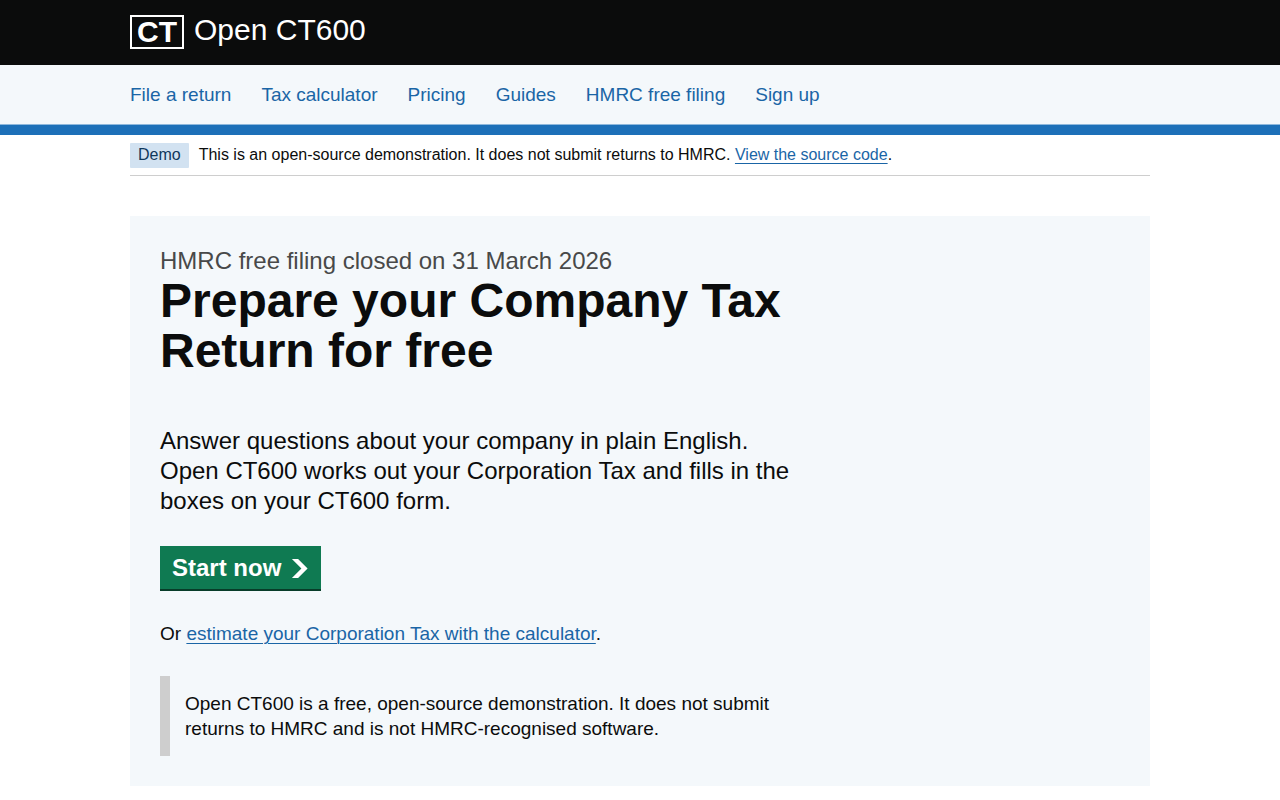
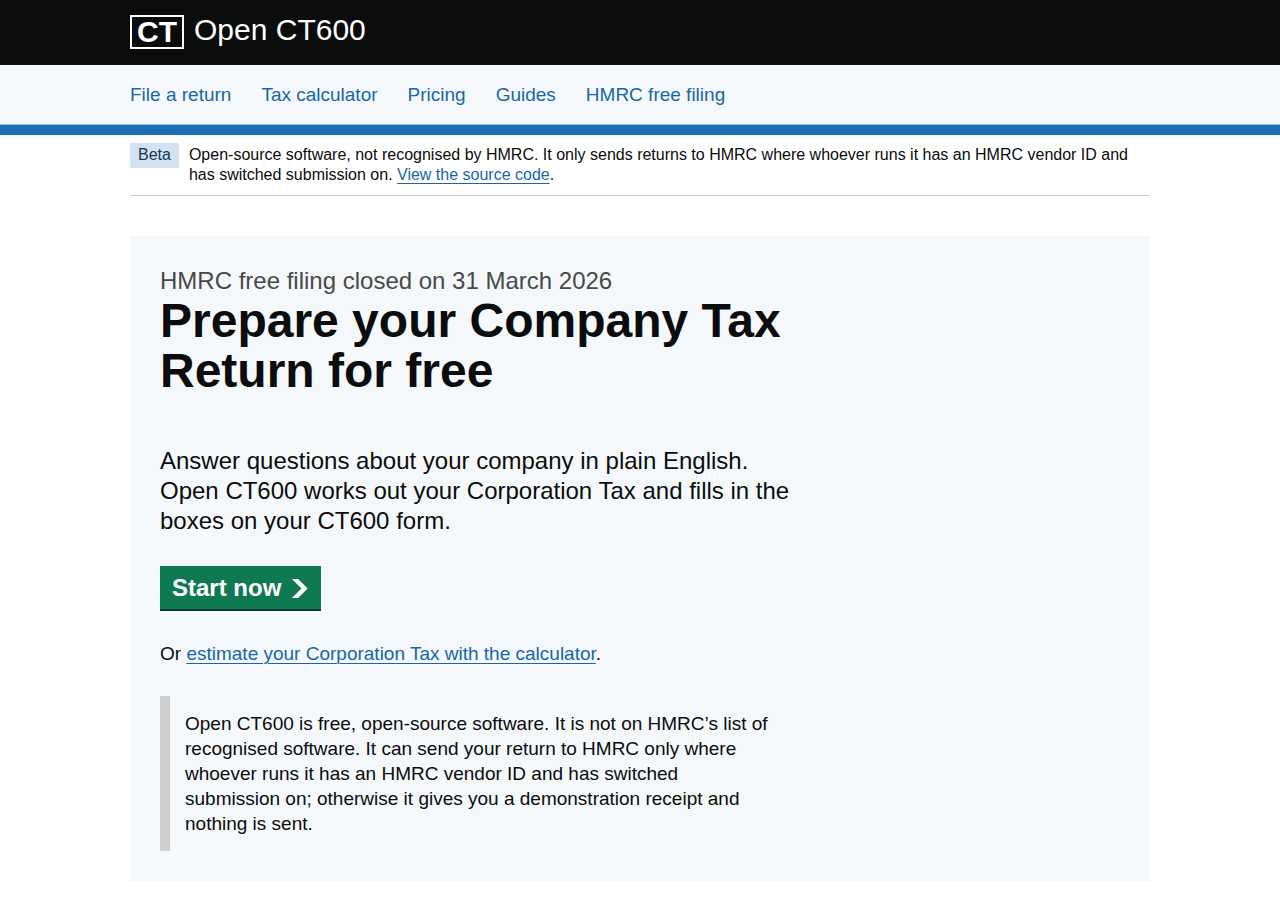
docs: README for HMRC filing; fix HMRC typos in labels (#17)
* docs: describe HMRC filing, verification and limitations in the README

* fix(schema): correct HMRC typos in question labels

* docs: refresh README limitations and screenshots

diff --git a/backend/src/open_ct600/schema/generate.py b/backend/src/open_ct600/schema/generate.py
@@ -235,11 +235,28 @@ class BoxRow:
     description: str
 
 
+# Typos in HMRC's box descriptions, corrected before they become question labels.
+LABEL_CORRECTIONS = {
+    "during the returning period": "during the return period",
+    "eariler": "earlier",
+}
+
+
+def correct_label(description: str) -> str:
+    """Return ``description`` with HMRC's known typos corrected."""
+    for typo, correction in LABEL_CORRECTIONS.items():
+        description = description.replace(typo, correction)
+    return description
+
+
 def load_box_map(path: Path) -> list[BoxRow]:
     """Read the box map's rows, in schema order."""
     with path.open(encoding="utf-8", newline="") as handle:
         reader = csv.DictReader(handle, delimiter="\t", quoting=csv.QUOTE_NONE)
-        return [BoxRow(row["path"], row["box_id"], row["description"].strip()) for row in reader]
+        return [
+            BoxRow(row["path"], row["box_id"], correct_label(row["description"].strip()))
+            for row in reader
+        ]
 
 
 class BoxMap:

diff --git a/backend/tests/test_schema.py b/backend/tests/test_schema.py
@@ -11,6 +11,7 @@ from open_ct600.schema.generate import (
     BoxRow,
     SchemaError,
     box_id,
+    correct_label,
     generate,
     humanise,
     render,
@@ -19,6 +20,14 @@ from open_ct600.schema.spec import PAGE_CODES, RETURN_PATH, SPEC_PATH, load_spec
 
 SPEC = load_spec()
 LOANS = f"{RETURN_PATH}/LoansByCloseCompanies"
+
+
+def test_hmrc_typos_are_corrected_in_labels():
+    assert correct_label("repaid during the returning period but eariler than 9 months") == (
+        "repaid during the return period but earlier than 9 months"
+    )
+    labels = [node.label for node in SPEC.root.walk()]
+    assert not [label for label in labels if "eariler" in label or "returning period" in label]
 
 
 def test_committed_spec_is_up_to_date():

diff --git a/README.md b/README.md
@@ -1,17 +1,19 @@
 # Open CT600
 
-A free, open-source website for preparing a UK Company Tax Return (CT600). It takes the place of HMRC's
-old online filing service for small companies, which closed on 31 March 2026, and replicates
+A free, open-source website for preparing and filing a UK Company Tax Return (CT600). It takes the place
+of HMRC's old online filing service for small companies, which closed on 31 March 2026, and replicates
 [taxpipe.co.uk](https://taxpipe.co.uk/) as open source.
 
 - **Frontend:** React 19 + TypeScript (Vite), built on the [GOV.UK Design System](https://design-system.service.gov.uk/)
   (`govuk-frontend` 6).
-- **Backend:** Python 3.13 + FastAPI. It computes Corporation Tax and the CT600 boxes.
+- **Backend:** Python 3.13 + FastAPI. It computes Corporation Tax, reliefs and every CT600 box. It also
+  produces the iXBRL accounts and computations and the CT600 XML, validates them against HMRC's own
+  rules, and can submit them to HMRC.
 
-> **This is a demonstration.** It does not submit returns to HMRC and is not HMRC-recognised software.
-> Use it to prepare and check your figures, then file with
-> [HMRC-recognised software](https://www.gov.uk/government/publications/corporation-tax-commercial-software-suppliers/corporation-tax-commercial-software-suppliers)
-> or an accountant. It is not tax advice.
+> **Open CT600 is not HMRC-recognised software, and it is not tax advice.** A deployment submits
+> returns to HMRC only when its operator holds an HMRC vendor ID and switches submission on (see
+> [Submitting to HMRC](#submitting-to-hmrc)). Otherwise it prepares and checks your return, gives you
+> the files, and issues a demonstration receipt.
 
 ![Home page](docs/screenshots/home.png)
 
@@ -19,36 +21,75 @@ old online filing service for small companies, which closed on 31 March 2026, an
 
 | Area | What you get |
 | --- | --- |
-| Filing service (`/file`) | Uses the GOV.UK start page, task list and one-topic-per-page patterns: company details (including the type of company and its principal activity), accounting period, profit and loss account, tax adjustments, micro-entity balance sheet and accounts details (accounting standard, directors, approval date, employees, trading status). Check your answers shows every CT600 box, the tax computation and the accounts. After a declaration, it issues a demo receipt with a submission reference and a fingerprint of the return. |
+| Filing service (`/file`) | GOV.UK start page, task list and question pages: company details, accounting period, profit and loss, tax adjustments, balance sheet, accounts details (standard, directors, approval, dormancy), reliefs, and supplementary pages. |
+| Supplementary pages | CT600A–CT600P (CT600G is dormant). The user picks the pages that apply. Each page is a form generated from HMRC's schema, with box numbers as hints and add-another lists; the service works out the calculated boxes. |
+| Reliefs | Group relief (CT600C). R&D: SME and large-company RDEC before 1 April 2024; merged RDEC or ERIS after. Loans to participators (s455, CT600A). The calculations for each page and how they feed the main return. |
+| Check your answers | Every CT600 box, the tax computation, the reliefs and the accounts. HMRC's offline validation is shown too: its XSD and all 1,072 business rules, with HMRC's error codes, linked to the question to fix. |
+| Files | iXBRL statutory accounts (micro-entity FRS 105 or small FRS 102 1A, FRC 2026 taxonomy); iXBRL Corporation Tax computations (HMRC ct-comp 2024); CT600 XML (schema v1.994) with both attached. |
+| Submission | Test in Live or live submission through HMRC's Transaction Engine, using the company's Government Gateway user ID and password. The password is passed straight to HMRC and never stored or logged. The confirmation shows HMRC's receipt: IRmark, correlation ID and accepted time. |
 | Tax calculator (`/calculator`) | Corporation Tax for any period from 1 April 2017 to 31 March 2027, with marginal relief, associated companies, short periods and periods that span 1 April. |
 | Content | Home, pricing (free), HMRC free-filing closure explainer, guides, help/FAQ, privacy, cookies (none are used), accessibility statement and terms. |
 
 Drafts are kept only in the user's browser (`localStorage`). The API stores nothing.
 
-| Task list | Check your answers | Confirmation |
-| --- | --- | --- |
-| ![Task list](docs/screenshots/task-list.png) | ![Check your answers](docs/screenshots/check-answers.png) | ![Confirmation](docs/screenshots/confirmation.png) |
+| Task list | Supplementary page (CT600A) | Check your answers | Declaration |
+| --- | --- | --- | --- |
+| ![Task list](docs/screenshots/task-list.png) | ![CT600A loans, generated from HMRC's schema](docs/screenshots/supplementary-page.png) | ![Check your answers, with HMRC's rules passing](docs/screenshots/check-answers.png) | ![Declaration on a deployment without submission](docs/screenshots/declaration.png) |
 
-### Tax rules implemented
+## How it is verified
 
-The rules are in `backend/src/open_ct600/tax.py`, following CTA 2010 as amended by Finance Act 2021:
+| What | How |
+| --- | --- |
+| Tax, reliefs and pages | Unit tests using worked examples from HMRC guidance and manuals for each relief and page, checked by hand. Mutation checks on the core formulas. |
+| CT600 XML | Every return shape in the tests passes HMRC's v1.994 XSD and HMRC's schematron offline with zero problems. |
+| IRmark | Reproduces HMRC's published worked example byte for byte. |
+| iXBRL | Every generated document passes [Arelle](https://arelle.org/) offline, with the UK plugin and the HMRC disclosure system, against the FRC and HMRC taxonomy packages pinned by SHA-256 in `specs/ixbrl/taxonomies.tsv`. Any warning fails the test. |
+| End to end with HMRC | `pytest -m hmrc_tpvs` sends synthetic returns with real iXBRL to HMRC's third-party validation service (TPVS) and expects a signed receipt whose digest equals our IRmark. The returns are micro-entity, small company, net liabilities, group relief, s455 loans, SME R&D, merged RDEC, ERIS and a tax avoidance scheme disclosure. All pass. |
+| Transaction Engine | Submit → poll → delete and every HMRC error class are tested against a stub Transaction Engine that replays HMRC's messages. |
 
-- FY2017 to FY2022: a flat 19%.
-- FY2023 onwards:
-  - The small profits rate of 19% applies where augmented profits are £50,000 or less.
-  - The main rate of 25% applies at £250,000 or more.
-  - In between, marginal relief is 3/200 × (U − A) × N/A.
-- Limits are divided by the number of associated companies plus one. For periods shorter than 12
-  months they are cut in proportion to days / 365. A 12-month period that includes 29 February
-  keeps the full limits.
-- Periods that span 1 April are split by days, and each slice is taxed at its own year's rates.
-- Payment is due 9 months and 1 day after the period ends. The return is due 12 months after.
-- The CT600 boxes produced are 145–315 (profits), 326/329 (associated companies and relief
-  entitlement), 330–345 and 380–395 (the rows for each financial year), and 430–525 (tax
-  payable).
+## Submitting to HMRC
 
-Not implemented: iXBRL accounts and computations, real HMRC submission (Government Gateway /
-Transaction Engine), group relief, R&D relief, and the supplementary pages (CT600A onwards).
+HMRC accepts CT600 returns only from software that sends its vendor ID. HMRC's Software Developers
+Support Team (SDSTeam@hmrc.gov.uk) issues the ID and runs the recognition process. To enable
+submission on your deployment:
+
+```sh
+HMRC_VENDOR_ID=1234            # your 4-digit HMRC vendor ID
+HMRC_SUBMISSION_ENABLED=true   # off by default, so a public demo never handles Gateway passwords
+```
+
+- **Test in Live** (class `HMRC-CT-CT600-TIL`) has HMRC check the whole return with real credentials,
+  without filing it.
+- **Protect a submitting deployment.** With submission on, the service passes whatever Government
+  Gateway credentials it receives to HMRC under your vendor ID. Put it behind your own authentication
+  and rate limiting, so it can't be used to test credentials against HMRC. With submission off, the
+  page never asks for credentials.
+- **Not yet exercised against HMRC:** live and Test in Live submission need a vendor ID and real
+  credentials, so the submit → poll → delete flow is tested only against the stub Transaction Engine.
+  The message itself (schema, business rules, IRmark and iXBRL) is proven on TPVS.
+
+## Known limitations
+
+- **Computations for periods ending after 31 March 2026.** HMRC accepts its 2024 computations
+  taxonomy only for these earlier periods, and has not yet published the 2025 one. For later periods the
+  service explains this and does not submit; the accounts and CT600 XML are still produced.
+- **s455 at 35.75%.** Loans made from 6 April 2026 are filed at 33.75%, because HMRC's online service
+  accepts the new rate only from April 2027. The difference is shown as tax due on amendment.
+- **Not calculated:**
+  - The restriction on using carried-forward losses above the £5 million deductions allowance.
+  - Income tax deducted from income (box 515).
+- **Refused, with a clear message rather than a wrong return:**
+  - Insurance companies (company type 5) and REIT tax-exempt businesses (type 10).
+  - Periods of account longer than 12 months.
+  - Ring fence trades in periods starting before 1 April 2023, because the older ring fence limits aren't modelled.
+- **CT600A later-repayment relief** assumes the company's later accounting periods are 12 months long,
+  because the page has no field for them.
+- **No PDF attachments.** Answers that HMRC requires a PDF for are rejected, for example CT600C
+  "notices of consent attached" (HMRC rule 9552). Use the simplified arrangements authorisation
+  instead.
+- **Accounts are single-period.** There are no prior-year comparatives, and the legal form is always
+  private limited company. HMRC's ct-comp 2024 taxonomy has no elements for marginal relief or the
+  merged RDEC and ERIS steps, so those appear in the computation text untagged.
 
 ## Running it
 
@@ -76,17 +117,22 @@ docker run --rm -p 8000:8000 open-ct600
 | Method | Path | Purpose |
 | --- | --- | --- |
 | `GET` | `/api/health` | Liveness |
-| `POST` | `/api/calculator` | Corporation Tax for `period_start`, `period_end`, `taxable_profits`, `associated_companies` |
-| `POST` | `/api/returns/compute` | CT600 boxes, tax computation and micro-entity accounts for a full return |
-| `POST` | `/api/returns/submit` | Takes a return plus a declaration and issues a demo receipt. Nothing is sent to HMRC. |
+| `GET` | `/api/schema/pages` | Supplementary pages A–P: their schema trees and the boxes the service calculates |
+| `POST` | `/api/calculator` | Corporation Tax for a period and taxable profits |
+| `POST` | `/api/returns/compute` | CT600 boxes, tax computation, reliefs, completed pages and accounts |
+| `POST` | `/api/returns/validate` | HMRC's XSD and business rules run offline, with problems mapped to boxes and questions |
+| `POST` | `/api/returns/accounts.xhtml` | iXBRL statutory accounts |
+| `POST` | `/api/returns/computations.xhtml` | iXBRL Corporation Tax computations |
+| `POST` | `/api/returns/ct600.xml` | CT600 XML with the iXBRL attached |
+| `POST` | `/api/returns/submit-to-hmrc` | Test in Live or live submission; needs `HMRC_SUBMISSION_ENABLED` and `HMRC_VENDOR_ID` |
+| `POST` | `/api/returns/submit` | Demonstration receipt. Nothing is sent to HMRC. |
 
-Interactive docs are at `/docs` while the API is running. Validation errors are FastAPI's standard
-`422` responses, with messages written in GOV.UK style.
+The return endpoints take `{"ct600": …, "declaration": …}`. Interactive docs are at `/docs`.
 
 ## Development
 
 ```sh
-# backend
+# backend (add -m hmrc_tpvs to run the opt-in TPVS tests; synthetic data only)
 cd backend && uv run ruff format --check . && uv run ruff check . && uv run ty check && uv run pytest
 
 # frontend
@@ -94,7 +140,9 @@ cd frontend && pnpm lint && pnpm format:check && pnpm test && pnpm build
 ```
 
 The same checks run in CI (`.github/workflows/ci.yml`) and as [prek](https://github.com/j178/prek)
-hooks (`prek install`).
+hooks (`prek install`). The design is in [`docs/design/filing-with-hmrc.md`](docs/design/filing-with-hmrc.md).
+The official material it is built against is in [`specs/`](specs/README.md): HMRC schemas and
+business rules, the box map, samples, taxonomy pins and research notes.
 
 ### Design system notes
 
@@ -107,4 +155,5 @@ Design System's rules for services outside GOV.UK:
 
 ## Licence
 
-[MIT](LICENSE).
+[MIT](LICENSE). HMRC schemas and documents in `specs/` are Crown copyright under the Open Government
+Licence v3.0.
